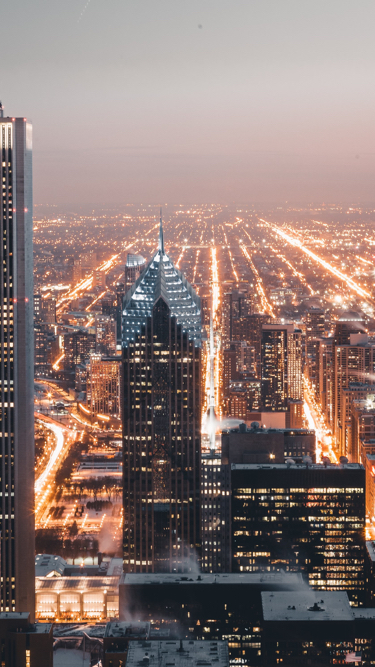
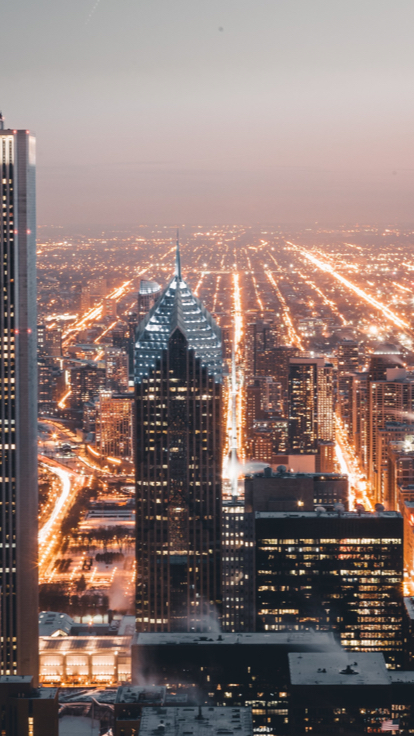
resize mobile images

diff --git a/server.js b/server.js
@@ -6,8 +6,6 @@ var db = require('diskdb');
 db.connect('db', ['affirmations', 'images']);
 var bodyParser = require('body-parser');
 var moment = require('moment');
-var device = require('express-device');
-var cloudinary = require('cloudinary');
 
 // APP DEFINITIONS
 var app = express();
@@ -18,7 +16,6 @@ app.use(bodyParser.urlencoded({
 }));
 app.use(bodyParser.json());
 app.use(express.static('public'));
-app.use(device.capture());
 
 // VIEWS
 app.set('views', __dirname + '/views');
@@ -26,8 +23,6 @@ app.set('view engine', 'jade');
 
 // LANDING PAGE & MAIN APP
 app.get('/', function(req, res) {
-
-
 
     res.render('homepage', ({
         date: moment().format("ddd, MMM Do YY"),

diff --git a/public/js/home.js b/public/js/home.js
@@ -1,6 +1,13 @@
 "use strict"
 
-$(document).ready(function(){
+$(document).ready(function() {
 
-  // END OF DOCUMENT.READY
+    if (/Android|webOS|iPhone|iPad|iPod|BlackBerry|IEMobile|Opera Mini/i.test(navigator.userAgent)) {
+        console.log('mobile');
+    } else if (/iPad/i.test(navigator.userAgent)) {
+        console.log('tablet');
+    } else {
+        console.log('desktop');
+    }
+
 });
